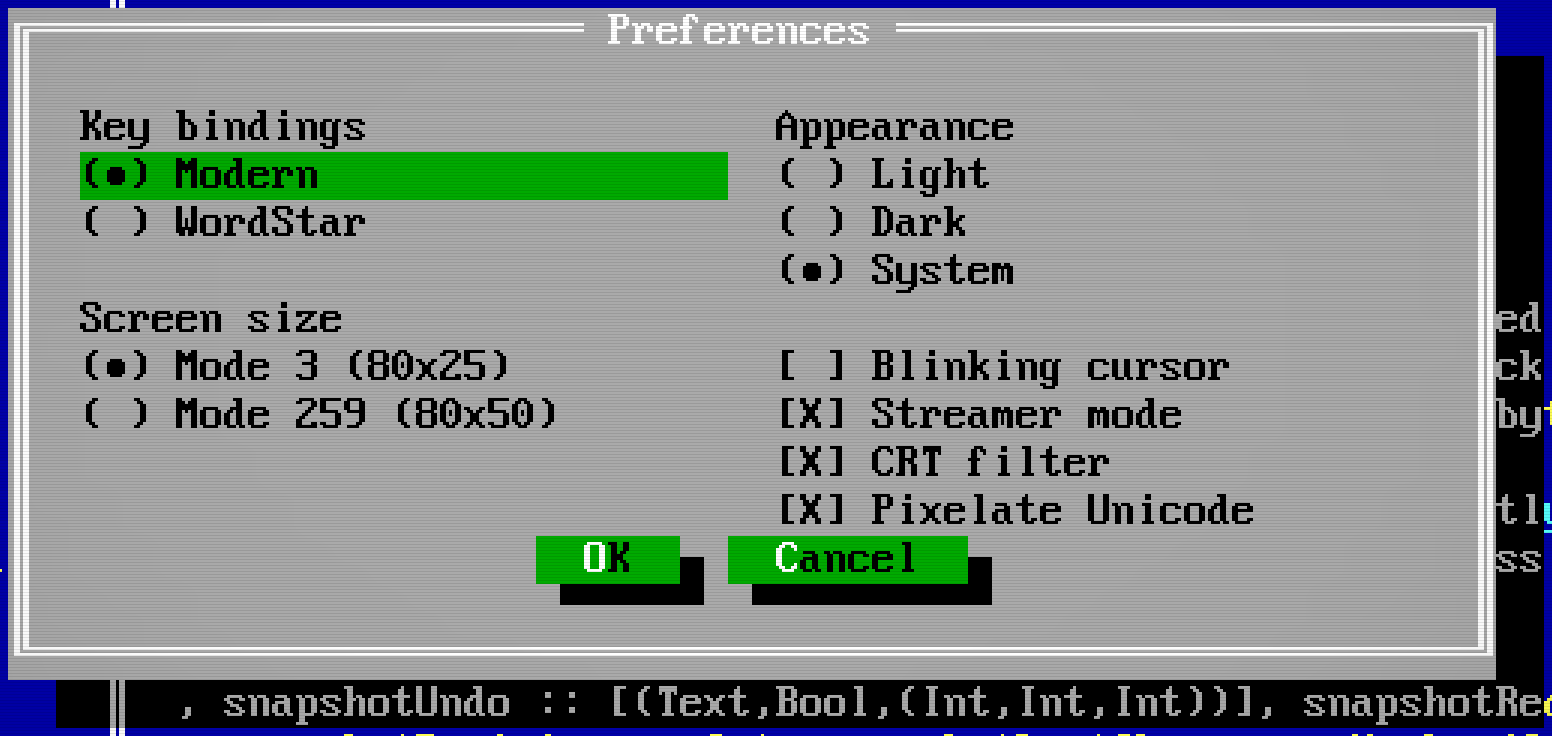
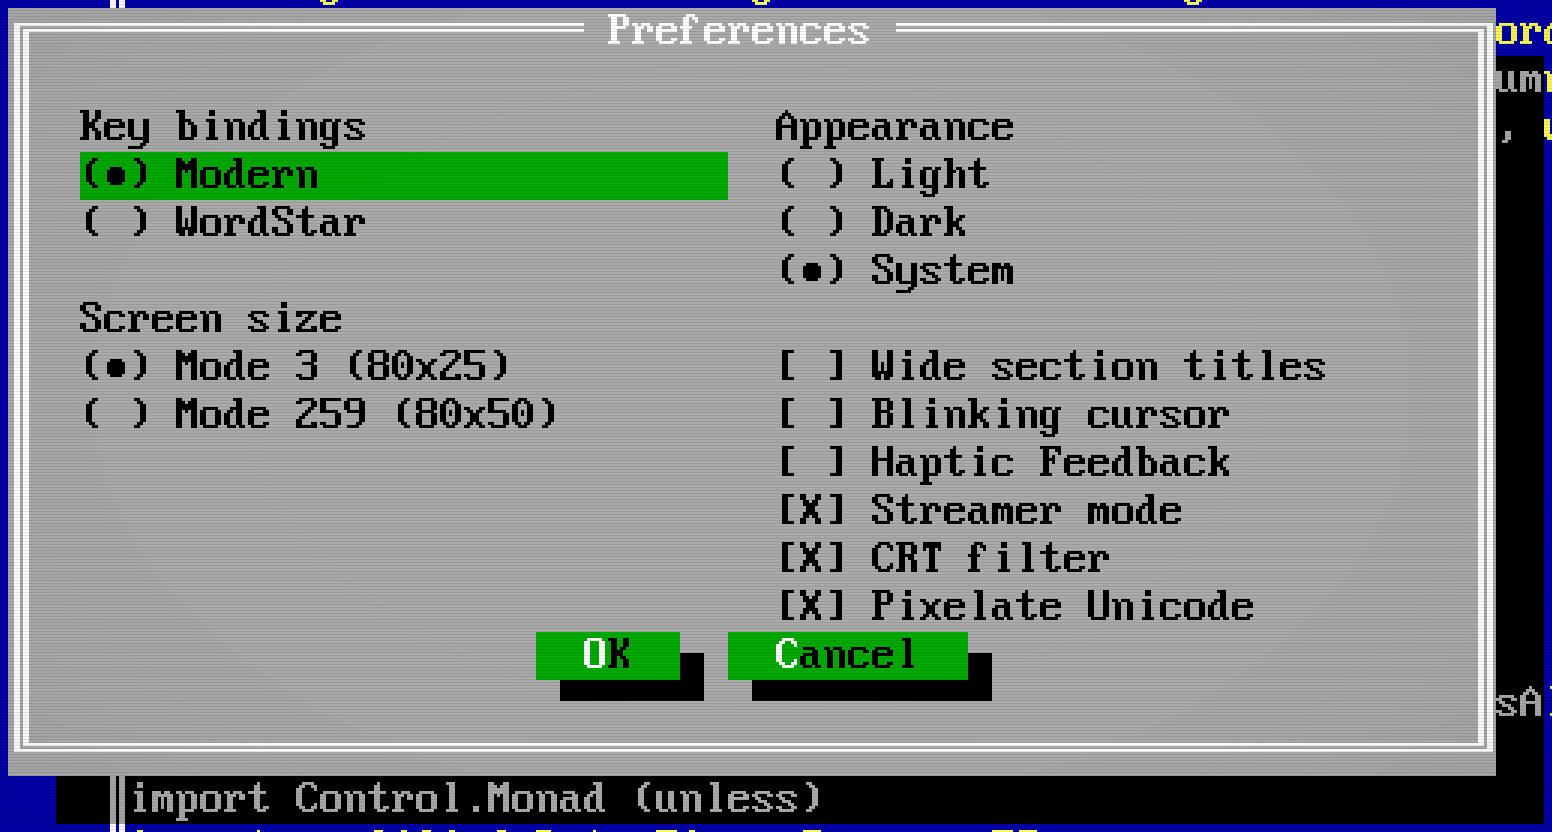
Give native dialog button edges optional haptic feedback

diff --git a/cbits/accessibility.m b/cbits/accessibility.m
@@ -203,6 +203,9 @@ static void clearSidebarAccessibility(void) {
 @property(copy) NSArray<HideAXControl *> *children;
 @property(copy) NSDictionary<NSArray *,HideAXControl *> *nodes;
 @property BOOL truncated;
+@property BOOL hapticFeedback;
+- (void)crossedButton:(NSTrackingArea *)area dragging:(BOOL)dragging;
+- (void)requestHapticFeedback;
 @end
 static HideAXDialog *dialogHost;
 static BOOL dialogPresent;
@@ -265,6 +268,39 @@ static NSString *dialogHelp(NSDictionary *record) {
 - (void)retire { self.record=nil;self.children=nil;self.parent=nil;self.host=nil; }
 @end
 @implementation HideAXDialog
+- (void)updateTrackingAreas {
+    [super updateTrackingAreas];
+    NSArray<NSTrackingArea *> *previous=self.trackingAreas.copy;
+    NSMutableArray<NSTrackingArea *> *retained=[NSMutableArray new];
+    if (self.hapticFeedback) for (HideAXControl *control in self.nodes.allValues) {
+        if (![control.record[@"role"] isEqual:@"button"]) continue;
+        NSArray *r=control.record[@"bounds"]; double rect[4];
+        if (!thc_accessibility_cell_rect([r[0] intValue],[r[1] intValue],[r[2] intValue],[r[3] intValue],rect)) continue;
+        NSRect frame=NSMakeRect(rect[0],rect[1],rect[2],rect[3]);
+        NSTrackingArea *area=nil;
+        for (NSTrackingArea *candidate in previous)
+            if ([candidate.userInfo[@"id"] isEqual:control.record[@"id"]] && NSEqualRects(candidate.rect,frame)) { area=candidate;break; }
+        if (!area) {
+            area=[[NSTrackingArea alloc] initWithRect:frame options:NSTrackingMouseEnteredAndExited|NSTrackingActiveInKeyWindow
+                owner:self userInfo:@{@"id":control.record[@"id"]}];
+            [self addTrackingArea:area];
+        }
+        [retained addObject:area];
+    }
+    // Editing a field or repainting must not recreate the edge beneath a stationary pointer.
+    for (NSTrackingArea *area in previous) if (![retained containsObject:area]) {
+        [self removeTrackingArea:area];
+    }
+}
+- (void)requestHapticFeedback {
+    [NSHapticFeedbackManager.defaultPerformer performFeedbackPattern:NSHapticFeedbackPatternGeneric performanceTime:NSHapticFeedbackPerformanceTimeNow];
+}
+- (void)crossedButton:(NSTrackingArea *)area dragging:(BOOL)dragging {
+    if (self.hapticFeedback && !dragging && area && [self.trackingAreas containsObject:area]) [self requestHapticFeedback];
+}
+// AppKit owns edge state, including areas created beneath a stationary pointer.
+- (void)mouseEntered:(NSEvent *)event { [self crossedButton:event.trackingArea dragging:NSEvent.pressedMouseButtons!=0]; }
+- (void)mouseExited:(NSEvent *)event { [self crossedButton:event.trackingArea dragging:NSEvent.pressedMouseButtons!=0]; }
 - (BOOL)isFlipped { return YES; }
 - (BOOL)acceptsFirstResponder { return NO; }
 - (NSView *)hitTest:(NSPoint)point { (void)point;return nil; }
@@ -281,12 +317,15 @@ static NSString *dialogHelp(NSDictionary *record) {
 static void clearDialogAccessibility(void) {
     NSView *parent=dialogHost.superview;
     for (HideAXControl *control in dialogHost.nodes.allValues) [control retire];
+    dialogHost.hapticFeedback=NO;[dialogHost updateTrackingAreas];
     dialogHost.children=nil;dialogHost.nodes=nil;dialogHost.record=nil;
     [dialogHost removeFromSuperview];dialogHost=nil;
     if (parent) NSAccessibilityPostNotification(parent,NSAccessibilityLayoutChangedNotification);
 }
 static int updateDialogAccessibility(void *native_window,NSDictionary *wrapper) {
     NSArray *size=wrapper[@"size"];NSDictionary *snapshot=wrapper[@"dialog"];
+    id haptics=wrapper[@"hapticFeedback"] ?: @NO;
+    if (!boolean(haptics)) goto invalid;
     if (![size isKindOfClass:NSArray.class] || size.count!=2 || !integer(size[0],512) || !integer(size[1],256) ||
         [size[0] integerValue]<1 || [size[1] integerValue]<1 || ![snapshot isKindOfClass:NSDictionary.class] ||
         !boolean(snapshot[@"present"]) || !boolean(snapshot[@"readOnly"]) || ![snapshot[@"readOnly"] boolValue] || !boolean(snapshot[@"truncated"])) goto invalid;
@@ -319,7 +358,7 @@ static int updateDialogAccessibility(void *native_window,NSDictionary *wrapper) 
             dialogHost=[[HideAXDialog alloc] initWithFrame:window.contentView.bounds];
             dialogHost.autoresizingMask=NSViewWidthSizable|NSViewHeightSizable;[window.contentView addSubview:dialogHost];
         }
-        BOOL changed=![root isEqual:dialogHost.record] || dialogHost.truncated!=[snapshot[@"truncated"] boolValue] || dialogHost.nodes.count!=values.count-1;
+        BOOL changed=dialogHost.hapticFeedback!=[haptics boolValue] || ![root isEqual:dialogHost.record] || dialogHost.truncated!=[snapshot[@"truncated"] boolValue] || dialogHost.nodes.count!=values.count-1;
         for (NSDictionary *node in values) if (node!=root && ![node isEqual:dialogHost.nodes[node[@"id"]].record]) changed=YES;
         if (!changed) return 1;
         NSMutableDictionary *nodes=[NSMutableDictionary new],*children=[NSMutableDictionary new];
@@ -334,6 +373,7 @@ static int updateDialogAccessibility(void *native_window,NSDictionary *wrapper) 
         }
         for (NSArray *key in dialogHost.nodes) if (!nodes[key]) [dialogHost.nodes[key] retire];
         dialogHost.record=root;dialogHost.nodes=nodes;dialogHost.children=children[root[@"id"]] ?: @[];dialogHost.truncated=[snapshot[@"truncated"] boolValue];
+        dialogHost.hapticFeedback=[haptics boolValue];[dialogHost updateTrackingAreas];
         NSAccessibilityPostNotification(dialogHost,NSAccessibilityLayoutChangedNotification);return 1;
     }
 invalid:
@@ -345,7 +385,7 @@ void thc_accessibility_close(void) {
 void thc_accessibility_geometry_changed(void) {
     if (host.rows.count) NSAccessibilityPostNotification(host,NSAccessibilityLayoutChangedNotification);
     if (canvasHost.images.count) NSAccessibilityPostNotification(canvasHost,NSAccessibilityLayoutChangedNotification);
-    if (dialogHost.record) NSAccessibilityPostNotification(dialogHost,NSAccessibilityLayoutChangedNotification);
+    if (dialogHost.record) { [dialogHost updateTrackingAreas];NSAccessibilityPostNotification(dialogHost,NSAccessibilityLayoutChangedNotification); }
 }
 int thc_accessibility_update(void *native_window, const char *json, size_t length) {
     if (!NSThread.isMainThread) return 0;

diff --git a/test/native-accessibility.m b/test/native-accessibility.m
@@ -1,6 +1,7 @@
 /* SPDX-License-Identifier: BSD-3-Clause */
 /* The SDL window stays hidden and never becomes key or ordered. */
 #import <Cocoa/Cocoa.h>
+#import <objc/runtime.h>
 #include <SDL3/SDL.h>
 #include "../cbits/window.h"
 #include "../cbits/accessibility.h"
@@ -35,6 +36,11 @@ static id findRole(id element,NSString *wanted,NSMutableSet *seen) {
     for (id child in children) { id found=findRole(child,wanted,seen); if (found) return found; }
     return nil;
 }
+@protocol HapticEdges
+- (void)crossedButton:(NSTrackingArea *)area dragging:(BOOL)dragging;
+@end
+static unsigned hapticRequests;
+static void countHapticRequest(id receiver,SEL selector) { (void)receiver;(void)selector;++hapticRequests; }
 static void near(double x,double y) { if (fabs(x-y)>0.000001) { fprintf(stderr,"Expected %.6f, got %.6f\n",y,x); abort(); } }
 int main(int argc,char **argv) {
  @autoreleasepool {
@@ -174,6 +180,29 @@ int main(int argc,char **argv) {
     }
     assert(![dialogHost acceptsFirstResponder] && [dialogHost hitTest:NSMakePoint(2,2)]==nil);
     assert(window.firstResponder==firstResponder && !findRole(window,NSAccessibilityOutlineRole,[NSMutableSet new]) && !findRole(window,NSAccessibilityImageRole,[NSMutableSet new]));
+    NSView *dialogView=dialogHost;
+    assert(dialogView.trackingAreas.count==0); // Off unless explicitly enabled.
+    NSMutableDictionary *hapticModal=[modalWrapper mutableCopy];hapticModal[@"hapticFeedback"]=@YES;
+    assert(publish(hapticModal));assert(dialogView.trackingAreas.count==1);
+    NSTrackingArea *edge=dialogView.trackingAreas.firstObject;
+    double edgeRect[4];assert(thc_accessibility_cell_rect(14,11,8,1,edgeRect));
+    assert(NSEqualRects(edge.rect,NSMakeRect(edgeRect[0],edgeRect[1],edgeRect[2],edgeRect[3])));
+    Method feedback=class_getInstanceMethod([dialogView class],NSSelectorFromString(@"requestHapticFeedback"));assert(feedback);
+    IMP originalFeedback=method_setImplementation(feedback,(IMP)countHapticRequest);
+    // Either native edge can arrive first when a dialog opens under the pointer.
+    [(id<HapticEdges>)dialogHost crossedButton:edge dragging:NO];assert(hapticRequests==1);
+    input[@"value"]=@"edit while hovering";assert(publish(hapticModal));
+    assert(dialogView.trackingAreas.firstObject==edge && hapticRequests==1);
+    [(id<HapticEdges>)dialogHost crossedButton:edge dragging:NO];assert(hapticRequests==2);
+    [(id<HapticEdges>)dialogHost crossedButton:edge dragging:YES];assert(hapticRequests==2);
+    [(id<HapticEdges>)dialogHost crossedButton:edge dragging:NO];assert(hapticRequests==3);
+    hapticModal[@"hapticFeedback"]=@NO;assert(publish(hapticModal));assert(dialogView.trackingAreas.count==0);
+    [(id<HapticEdges>)dialogHost crossedButton:edge dragging:NO];assert(hapticRequests==3);
+    hapticModal[@"hapticFeedback"]=@"yes";assert(!publish(hapticModal));
+    method_setImplementation(feedback,originalFeedback);
+    assert(publish(modalWrapper));
+    dialogHost=nil;for (NSView *view in window.contentView.subviews) if ([view isKindOfClass:NSClassFromString(@"HideAXDialog")]) dialogHost=view;
+    inputElement=findRole(window,NSAccessibilityTextFieldRole,[NSMutableSet new]);
     modal[@"truncated"]=@YES;assert(publish(modalWrapper));assert([[dialogHost accessibilityHelp] containsString:@"Some visible content is omitted"]);modal[@"truncated"]=@NO;
     input[@"value"]=@"updated";input[@"bounds"]=@[@2,@4,@5,@2];assert(publish(modalWrapper));
     assert(findRole(window,NSAccessibilityTextFieldRole,[NSMutableSet new])==inputElement && [[inputElement accessibilityValue] isEqual:@"updated"]);

diff --git a/docs/display.md b/docs/display.md
@@ -129,6 +129,10 @@ remain intact.
 **Blinking cursor** controls the insertion cursor. The native cursor blinks
 every half second; text terminals use the preference where DECSCUSR is supported.
 
+**Haptic Feedback** requests a click when the pointer enters or leaves a dialog
+button in a native Mac window. It is off by default and follows the trackpad's
+system settings. See [configuration](configuration.md) to enable it at startup.
+
 **CRT filter**, also available as `--crt`, adds scanlines and a vignette.
 The native frontend omits scanlines when the glyph rows are too small to keep
 text legible. **Pixelate Unicode** fits fallback text into bitmap-sized tiles;
